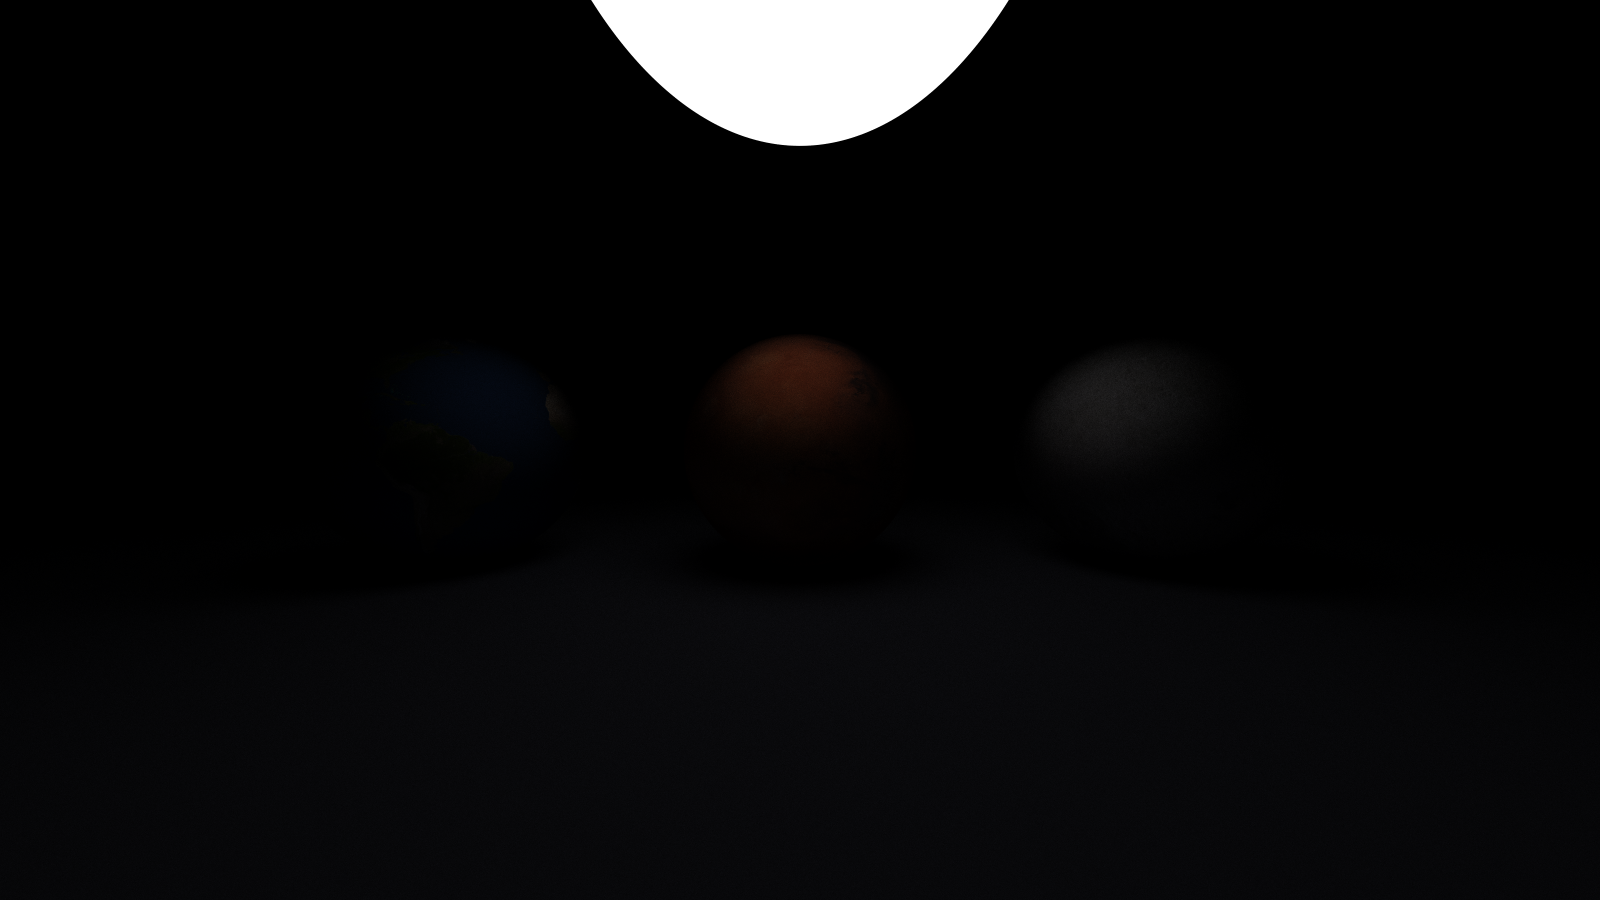
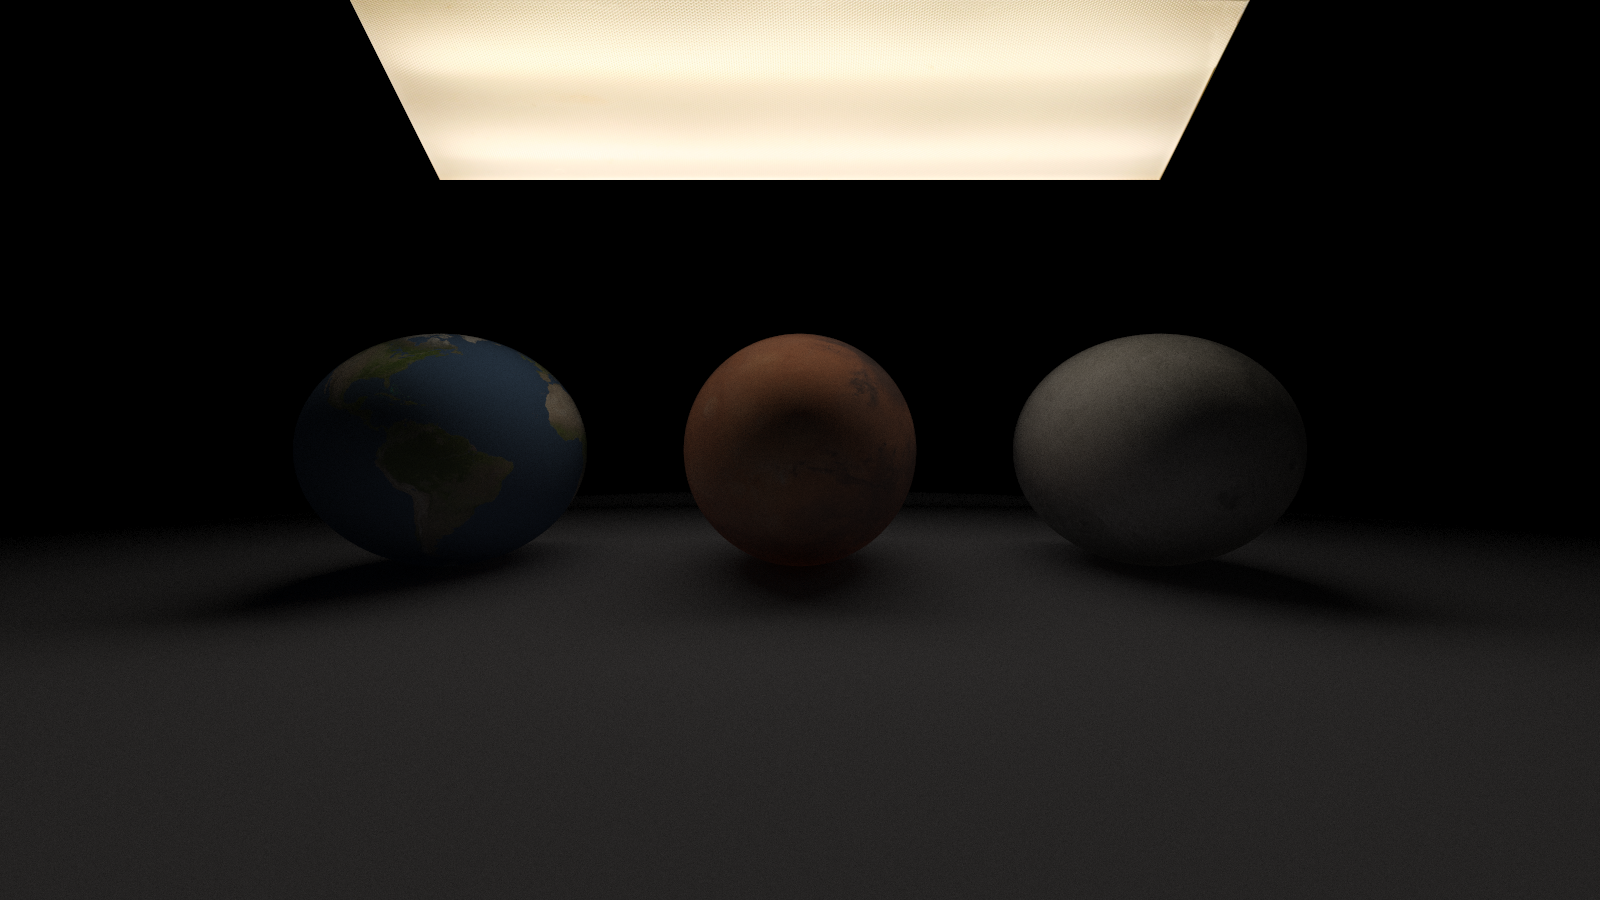
fix final pixel color computation

diff --git a/src/camera.rs b/src/camera.rs
@@ -152,7 +152,13 @@ impl<R: Rng> Camera<R> {
                 px = px + self.color_ray(&ray, world.clone(), self.max_bounces, rng);
             }
 
-            px / self.rays_per_pixel as f64
+            px = px / self.rays_per_pixel as f64;
+
+            px.x = Image::map_to_rgb_space(linear_to_gamma(px.x));
+            px.y = Image::map_to_rgb_space(linear_to_gamma(px.y));
+            px.z = Image::map_to_rgb_space(linear_to_gamma(px.z));
+
+            px
         });
 
         let file = File::create(path)?;
@@ -192,16 +198,16 @@ impl<R: Rng> Camera<R> {
                 ) * &scatter.attenuation;
             } else {
                 return Pixel {
-                    x: Image::map_to_rgb_space(linear_to_gamma(emission_color.x)),
-                    y: Image::map_to_rgb_space(linear_to_gamma(emission_color.y)),
-                    z: Image::map_to_rgb_space(linear_to_gamma(emission_color.z)),
+                    x: emission_color.x,
+                    y: emission_color.y,
+                    z: emission_color.z,
                 };
             }
         } else {
             return Pixel {
-                x: Image::map_to_rgb_space(linear_to_gamma(self.background.x)),
-                y: Image::map_to_rgb_space(linear_to_gamma(self.background.y)),
-                z: Image::map_to_rgb_space(linear_to_gamma(self.background.z)),
+                x: self.background.x,
+                y: self.background.y,
+                z: self.background.z,
             };
         }
     }

diff --git a/examples/planets.rs b/examples/planets.rs
@@ -2,7 +2,7 @@ use std::rc::Rc;
 
 use rstrace::bvh::BvhNode;
 use rstrace::camera::{Camera, CameraIntrinsics, CameraPose};
-use rstrace::geometry::Sphere;
+use rstrace::geometry::{Quad, Sphere};
 use rstrace::ray::Hittables;
 use rstrace::texture::{ImageTex, SolidTex};
 use rstrace::vec::*;
@@ -10,12 +10,12 @@ use rstrace::vec::*;
 fn main() {
     // --- Camera ---
     let mut intrinsics = CameraIntrinsics::default();
-    intrinsics.max_bounces = 100;
+    intrinsics.max_bounces = 50;
     intrinsics.rays_per_pixel = 1000;
     intrinsics.background = Color {
-        x: 0.00,
-        y: 0.00,
-        z: 0.00,
+        x: 0.0,
+        y: 0.0,
+        z: 0.0,
     };
 
     let pose = CameraPose::default();
@@ -55,19 +55,23 @@ fn main() {
         1.0,
     ));
 
-    let light = Rc::from(Sphere::emitter(
-        0.75,
+    let light = Rc::from(Quad::emitter_with_texture(
         Point {
-            x: 0.0,
-            y: 1.75,
-            z: -1.25,
+            x: -2.0,
+            y: 1.5,
+            z: -2.5,
         },
-        // ImageTex::new("assets/textures/light.avif").unwrap(),
-        SolidTex::new(Color {
+        Vec3 {
+            x: 0.0,
+            y: 0.5,
+            z: 0.5,
+        },
+        Vec3 {
             x: 4.0,
-            y: 4.0,
-            z: 4.0,
-        }),
+            y: 0.0,
+            z: 0.0,
+        },
+        ImageTex::new("assets/textures/light.jpg").unwrap(),
     ));
 
     let world_sphere = Sphere::lambertian_with_texture(

diff --git a/examples/cornell.rs b/examples/cornell.rs
@@ -12,7 +12,7 @@ fn main() {
     intrinsics.ar = 1.0;
     intrinsics.img_w = 600;
     intrinsics.rays_per_pixel = 200;
-    intrinsics.max_bounces = 100;
+    intrinsics.max_bounces = 40;
     intrinsics.vfov = 40.0;
     intrinsics.background = Color::zero();
 
@@ -46,9 +46,9 @@ fn main() {
         z: 0.73,
     };
     let light = Color {
-        x: 30.0,
-        y: 30.0,
-        z: 30.0,
+        x: 15.0,
+        y: 15.0,
+        z: 15.0,
     };
 
     let right_quad = Rc::from(Quad::lambertian_with_albedo(
